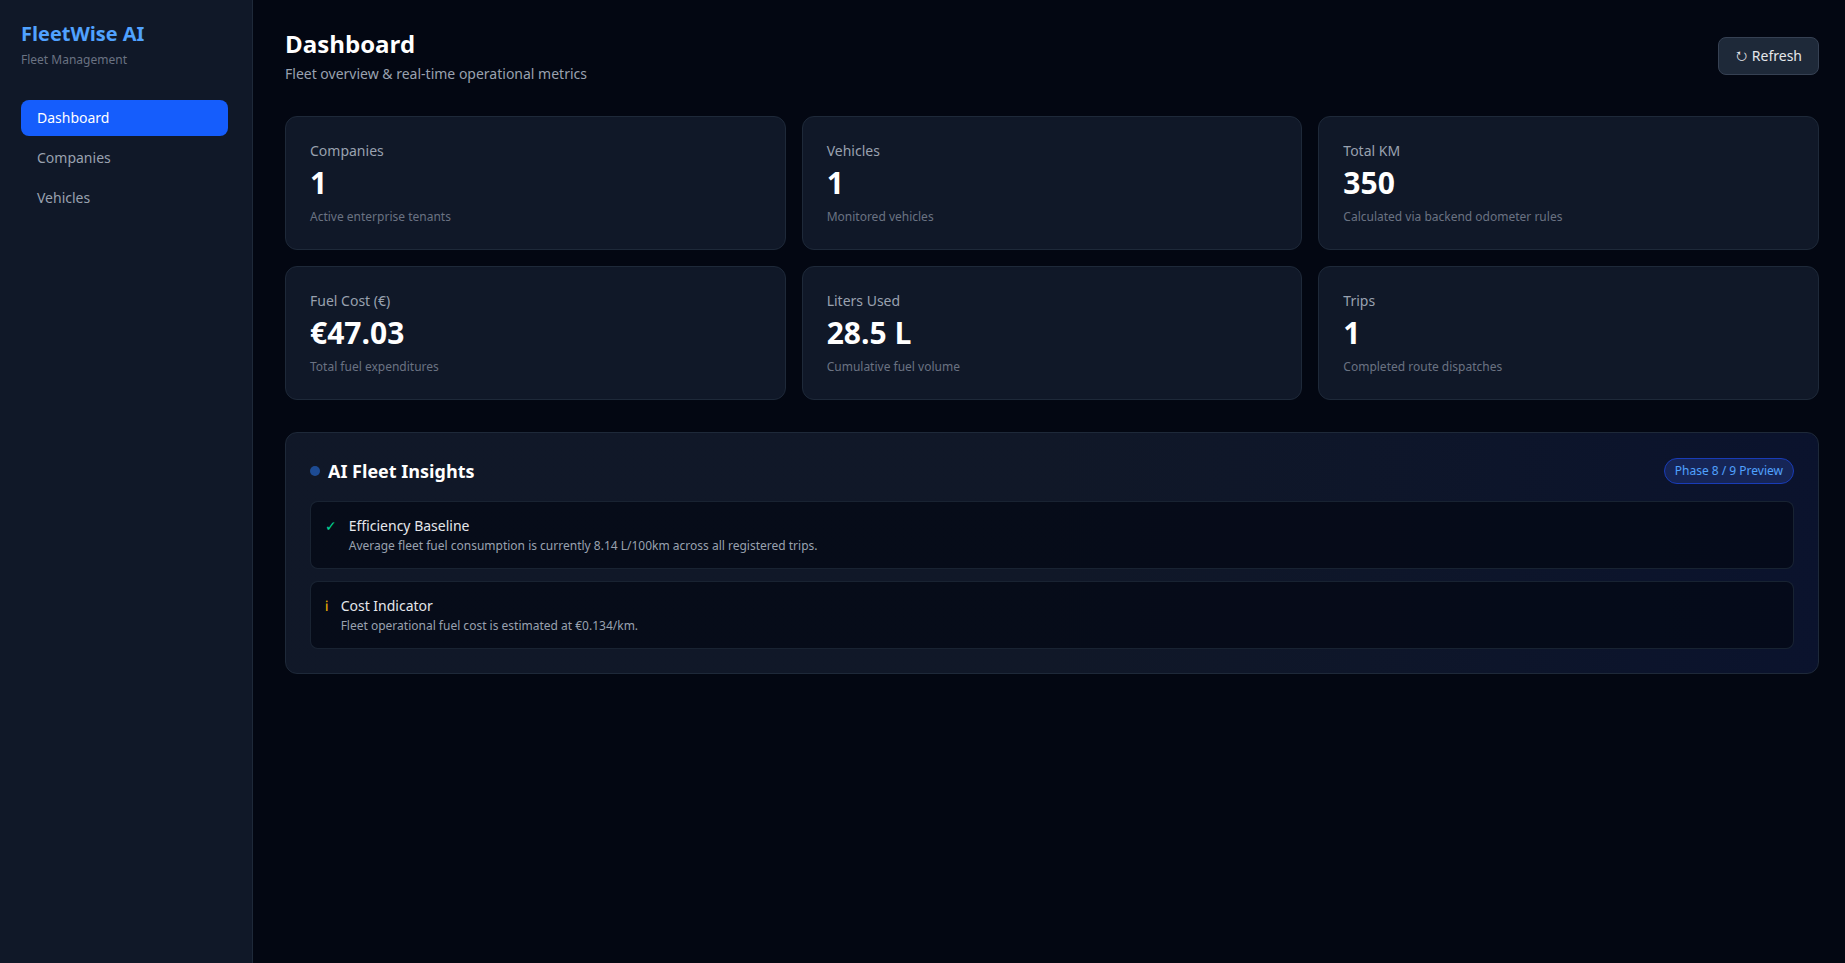
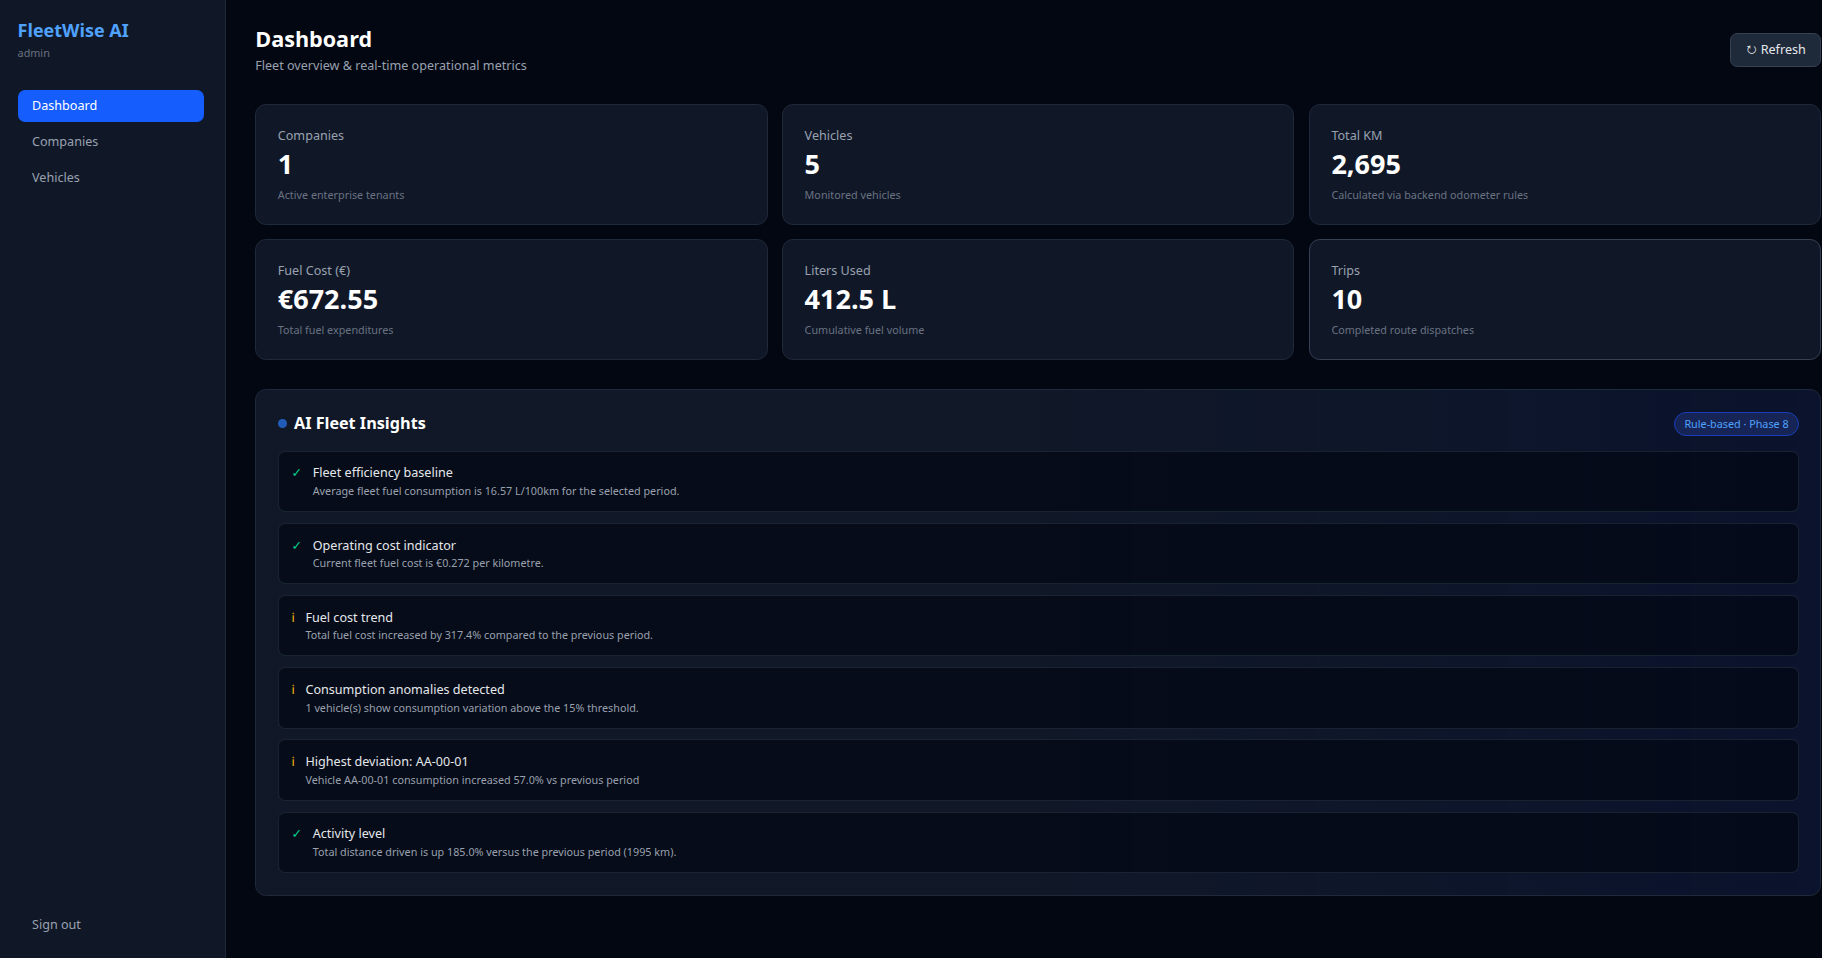
fix(seed on railway), add new screenshots with seeds and AI insights

diff --git a/README.md b/README.md
@@ -17,7 +17,7 @@ Fleet management platform that centralises vehicle, trip, fuel and expense data 
 | manager | manager123  | FLEET_MANAGER |
 | driver  | driver123   | DRIVER        |
 
-> Note: demo data may be empty until seed is loaded. Auth, RBAC and AI insights API are live.
+> Note: Auth, RBAC, AI insights API and demo seeds are live.
 
 ---
 
